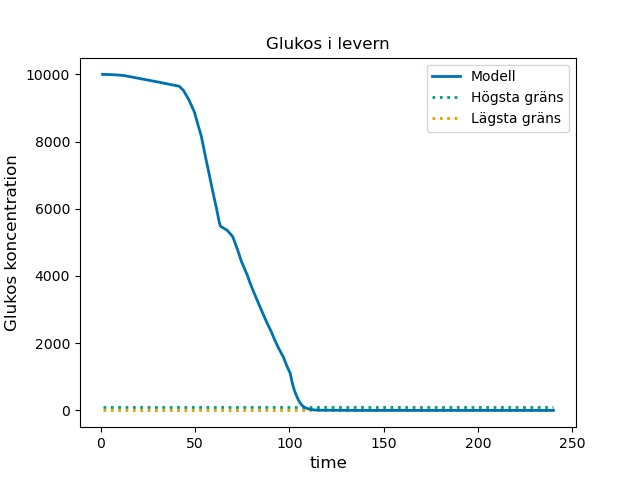
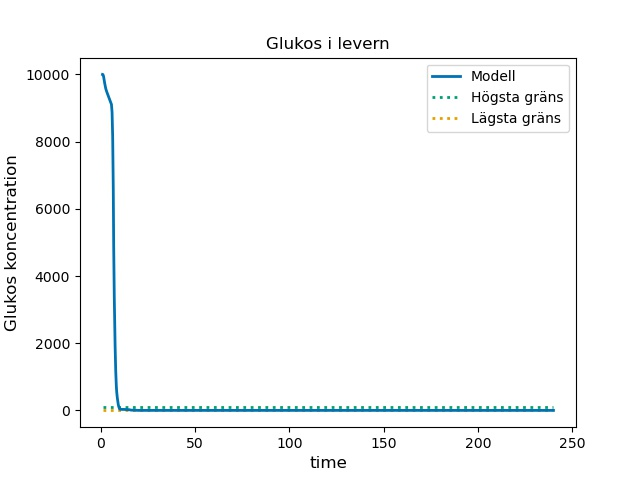
Much work

diff --git a/optimering/week16_open_loop_optimering.py b/optimering/week16_open_loop_optimering.py
@@ -24,9 +24,19 @@ tI_vec = data_I['time'].values
 cG_vec = data_G['conc'].values
 cI_vec = data_I['conc'].values 
 
+# Split the time-vectors at timepoint 20 minutes
+index_G = np.searchsorted(tG_vec, 20)
+index_I = np.searchsorted(tI_vec, 20)
+
+tG_1 = tG_vec[0:index_G]
+tG_2 = tG_vec[index_G:]
+
+tI_1 = tI_vec[0:index_I]
+tI_2 = tI_vec[index_I:]
+
 
 def open_loop(t,x,b): 
-    k1, k2, k3, k4, k5, k6 = b
+    k1, k2, k3, k4, k5 = b
      
     # Says that the concentrations can't be lower than zero 
     x[x < 0] = 0.0 
@@ -37,13 +47,13 @@ def open_loop(t,x,b):
     L= 50 # Startvärde glukos i levern
 
     # Glucose plasma [1]
-    dG = k1*H + k3*C -k2*G*I
+    dG = k1*H + k3*C - k2*I*G
 
     # Insulin plasma [2]
-    dI = k6*G - k2*I*G
+    dI = k5*G - k2*I*G
 
     # GLucose liver [3]
-    dC = -k3*C 
+    dC = -k3*C + L
 
     # Glucose musle [4]
     dM = k2*G*I - k4*M
@@ -51,35 +61,56 @@ def open_loop(t,x,b):
     # Glucose intake [5]
     dH = -k1*H
 
-    # # Glucagon in plasma [6]
-    # dE = -k5*E + k4*M
+    # Glucagon in plasma [6]
+    #dE = -k5*E + k4*M
 
     return [dG, dI, dC, dM, dH]
 
  
 
-def cost_function(b, yG_vec, yI_vec): 
+def cost_function(b, yG_vec, yI_vec):
+   # Calculates the target function for a model based on maximumlikelihood 
 
     # Start concentration, timespan   
-    x0 = [60, 3, 10000, 2, 70]  # G, I, C, M, H, E 
-    time_span_G = [tG_vec[0], tG_vec[-1]] 
-    time_span_I = [tI_vec[0], tI_vec[-1]] 
-    
+    x0 = [60, 3, 10000, 2, 70]  # G, I, C, M, H 
+    time_span_G1 = [tG_1[0], tG_1[-1]]
+    time_span_G2 = [tG_2[0], tG_2[-1]] 
+    time_span_I1 = [tI_1[0], tI_1[-1]]
+    time_span_I2 = [tI_2[0], tI_2[-1]]
 
-    # Step 1: Solve ODE-system at points tG_vec
-    sol_G = integrate.solve_ivp(open_loop, time_span_G, x0, method="LSODA", args=(b, ), t_eval=tG_vec) 
-    sol_I = integrate.solve_ivp(open_loop, time_span_I, x0, method="LSODA", args=(b, ), t_eval=tI_vec) 
 
+    # Solve ODE-system until 20 minutes
+    first_sol_G = integrate.solve_ivp(open_loop, time_span_G1, x0, method="LSODA", args=(b, ), t_eval=tG_1) 
+    first_sol_I = integrate.solve_ivp(open_loop, time_span_I1, x0, method="LSODA", args=(b, ), t_eval=tI_1) 
     
-    # step 2: Solve ODE-system qualitative
-    sol_qual = integrate.solve_ivp(open_loop, time_span_G, x0, method="LSODA", args=(b, ))
+    # Simulate injection of insulin
+    x1 = first_sol_G.y[:,-1] + [0, 100, 0, 0, 0]
+    
+    # Solve ODE-system after 20 miunutes
+    second_sol_G = integrate.solve_ivp(open_loop, time_span_G2, x1, method="LSODA", args=(b, ), t_eval = tG_2)
+    second_sol_I = integrate.solve_ivp(open_loop, time_span_I2, x1, method="LSODA", args=(b, ), t_eval = tI_2)
+
+    # The solution for the ODE-system over tG_vec and tI_vec
+    sol_G = np.concatenate([first_sol_G.y, second_sol_G.y], axis = 1)
+    sol_I = np.concatenate([first_sol_I.y, second_sol_I.y], axis = 1)
+     
+    # Solve ODE-system qualitative
+    first_sol_qual = integrate.solve_ivp(open_loop, [0,20], x0, method="LSODA", args=(b, ))
+
+    # Simulate the injection
+    x2 = first_sol_qual.y[:, -1] + [0, 100, 0, 0, 0]
+
+    # Solve ODE-system after 20 miunutes
+    second_sol_qual = integrate.solve_ivp(open_loop, [20,240], x2, method = "LSODA", args = (b, ))
+
+    sol_qual = np.concatenate([first_sol_qual.y, second_sol_qual.y], axis = 1)
 
     G_model = sol_qual.y[0]
     I_model = sol_qual.y[1]
-    C_model = sol_qual.y[1]
-    M_model = sol_qual.y[2]
-    H_model = sol_qual.y[3]
-    #E_model = sol_qual.y[5]
+    C_model = sol_qual.y[2]
+    M_model = sol_qual.y[3]
+    H_model = sol_qual.y[4]
+   #  E_model = sol_qual.y[5]
 
 
     # Step 3: Extract G and I model concentrations at t-points tG_vec and tI_vec
@@ -94,7 +125,7 @@ def cost_function(b, yG_vec, yI_vec):
     range_C = [0, 10000] # mmol 
     range_M = [0, 500] # mmol
     range_H = [0, 500] # mmol
-    # range_E = [0, 5]
+   #  range_E = [0, 5]
 
 
     if any(G_model) > np.max(range_G):
@@ -117,10 +148,10 @@ def cost_function(b, yG_vec, yI_vec):
        squared_sum += 100
     if any(H_model) < np.min(range_H):
        squared_sum += 100
-    # if any(E_model) > np.max(range_E):
-    #    squared_sum += 100
-    # if any(E_model) < np.min(range_E):
-    #    squared_sum += 100
+   #  if any(E_model) > np.max(range_E):
+   #     squared_sum += 100
+   #  if any(E_model) < np.min(range_E):
+   #     squared_sum += 100
     
     
 
@@ -132,7 +163,7 @@ def cost_function(b, yG_vec, yI_vec):
 ## Hypercube set up
 randSeed = 2 # random number of choice
 lhsmdu.setRandomSeed(randSeed) # Latin Hypercube Sampling with multi-dimensional uniformity
-start = np.array(lhsmdu.sample(6, 1)) # Latin Hypercube Sampling with multi-dimensional uniformity (parameters, samples)
+start = np.array(lhsmdu.sample(5, 1)) # Latin Hypercube Sampling with multi-dimensional uniformity (parameters, samples)
 
 para, samples = start.shape
 
@@ -142,7 +173,7 @@ para_int = [0, 500]
 minimum = (np.inf, None)
 
 # Bounds for the model
-bound_low = np.array([0, 0, 0, 0, 0, 0])
+bound_low = np.array([0, 0, 0, 0, 0])
 bound_upp = np.repeat(np.inf, para)
 bounds = Bounds(bound_low, bound_upp)
 
@@ -153,10 +184,10 @@ for n in range(samples):
     k3 = start[2,n] * para_int[1]
     k4 = start[3,n] * para_int[1]
     k5 = start[4,n] * para_int[1]
-    k6 = start[5,n] * para_int[1]
+   #  k6 = start[5,n] * para_int[1]
 
     
-    res = minimize(cost_function, [k1, k2, k3, k4, k5, k6], method='Powell', args = (cG_vec, cI_vec), bounds=bounds) #lägg in constraints här 
+    res = minimize(cost_function, [k1, k2, k3, k4, k5], method='Powell', args = (cG_vec, cI_vec), bounds=bounds) #lägg in constraints här 
 
     if res.fun < minimum[0]:
         minimum = (res.fun, res.x)
@@ -186,7 +217,52 @@ print(minimum[1])
 print("Value of cost-function") 
 print(minimum[0]) 
 
-# Plot model, data and constrains
+### ~~~~~~ Calculate the sensitivity and identity ~~~~~ ###
+
+def sensitivity(b,t,x):
+   # Calcualte the sensitivity matrix using the optimal 
+    h = np.sqrt(np.finfo(np.float).eps) # Maskintoleransen, vår steglängd för finita differen 
+    b_par = len(b)
+    t_len = len(t)
+    # Sensitivity analysis for each time step
+    S = np.zeros([b_par, t_len * len(x)])
+    time_span = [t[0], t[-1]]
+
+    for n in range(len(b)):
+        b1 = b.copy() 
+        b2 = b.copy()  
+        b1[n] += h 
+        b2[n] -= h
+
+        Sol_high = integrate.solve_ivp(open_loop, time_span, x, method='LSODA', args=(b1, ), t_eval = t)
+        Sol_low = integrate.solve_ivp(open_loop, time_span, x, method='LSODA', args=(b2, ), t_eval= t)
+        
+        Sol_diff = (Sol_high.y-Sol_low.y)/(2*h)
+
+        S[n,:] = Sol_diff.reshape(t_len*len(x))
+
+    return S
+
+S = sensitivity(minimum[1], tG_vec , x0)
+
+# Fisher matrix to make the covariance matrix
+Fisher = 2 * S @ S.transpose()
+
+cov_mat = Fisher.transpose()
+
+# Identification of the parameters
+d_cov = np.diag(cov_mat)
+
+var_coeff = np.square(d_cov)/minimum[1]
+
+print('Sensitivity matrix')
+print(S)
+
+
+print('Identification for each parameters')
+print(var_coeff)
+
+### ~~~~~~ Plot model, data and constrains ~~~~~~~ ###
 
 # Time span
 time_span = np.linspace(tG_vec[0], tG_vec[-1], len(G_model))

diff --git a/test.py b/test.py
@@ -8,6 +8,14 @@ import pandas as pd
 import os
 import lhsmdu
 
+def model1(t, x, k):
+    k1, k2 = k
+    
+    dx1 = -k1*x[0] + k2*x[1] 
+    dx2 = k1*x[0] - k2*x[1]
+    
+    return [dx1, dx2]
+
 # Colour-blind friendly palette (use nice colors)
 cb_palette1 = ["#999999", "#E69F00", "#56B4E9", "#009E73", "#F0E442", "#0072B2", "#D55E00", "#CC79A7"]
 
@@ -24,5 +32,31 @@ tI_vec = data_I['time'].values
 cG_vec = data_G['conc'].values
 cI_vec = data_I['conc'].values 
 
-for n in tG_vec:
-    if n <20
+# Split the time-vectors at timepoint 20 minutes
+index_G = np.searchsorted(tG_vec, 20)
+index_I = np.searchsorted(tI_vec, 20)
+
+tG_1 = tG_vec[0:index_G]
+tG_2 = tG_vec[index_G:]
+
+tI_1 = tI_vec[0:index_I]
+tI_2 = tI_vec[index_I:]
+
+x0 = [17,23]
+b = [1,2]
+
+first_sol_I = integrate.solve_ivp(model1, [0, 20], x0, method = "LSODA" , args = (b,), t_eval = tI_1)
+
+x1 = first_sol_I.y[:,-1] + [0, 20]
+
+print(x1)
+
+second_sol_I = integrate.solve_ivp(model1, [20,240], x1 , method = "LSODA", args= (b, ), t_eval = tI_2)
+
+sol_I = np.concatenate([first_sol_I.y, second_sol_I.y], axis = 1)
+
+print(sol_I.shape)
+
+plt.plot(tI_vec, sol_I[1])
+plt.show()
+
